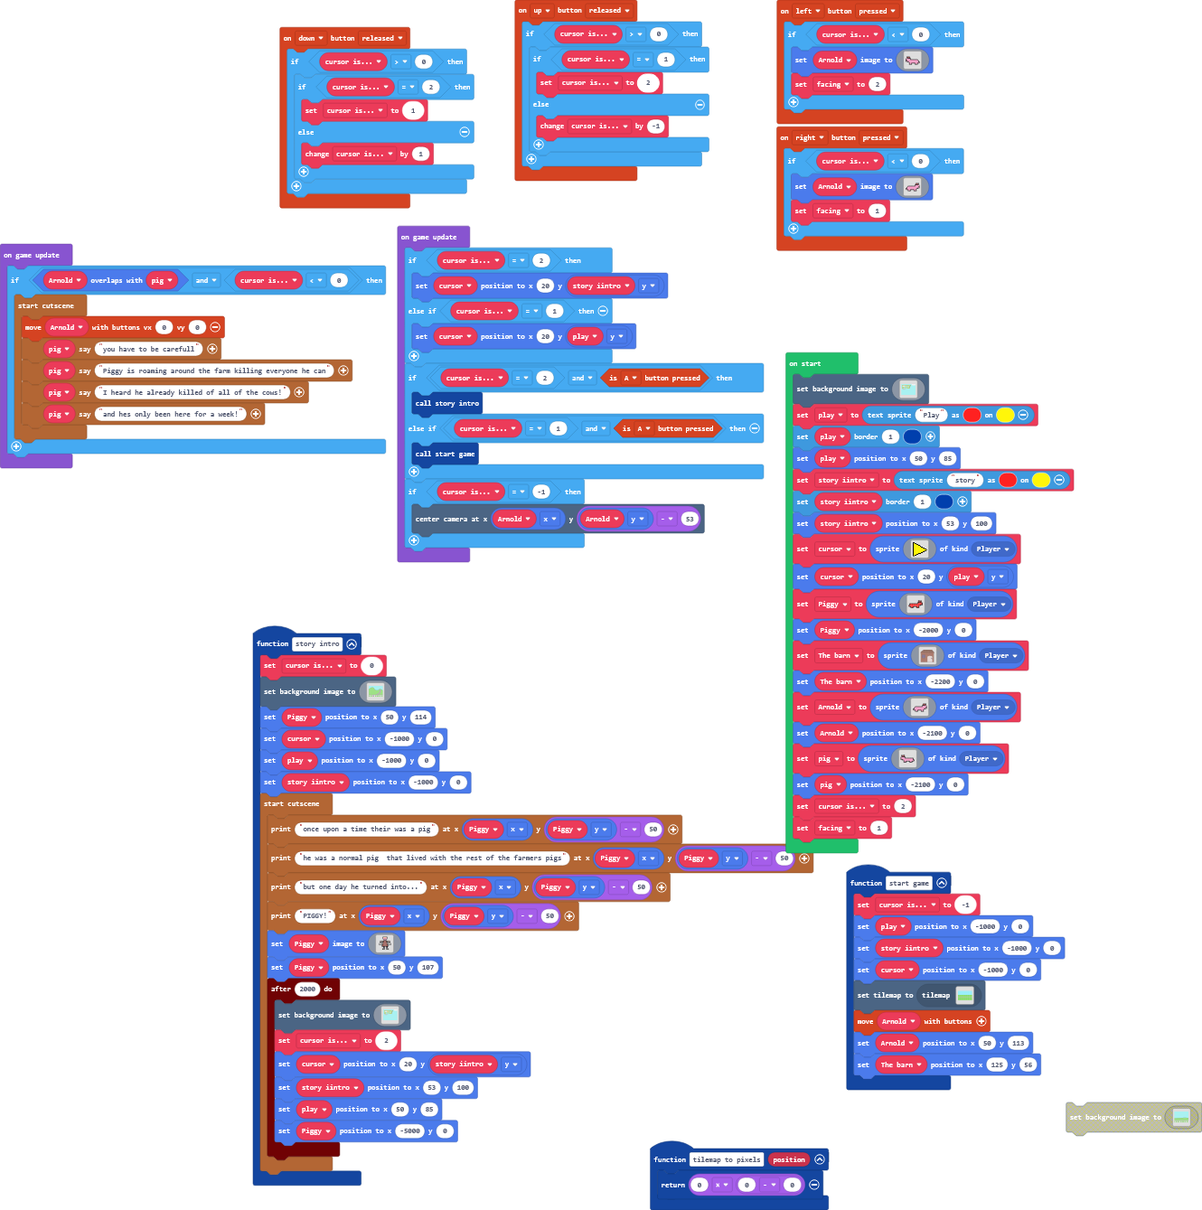
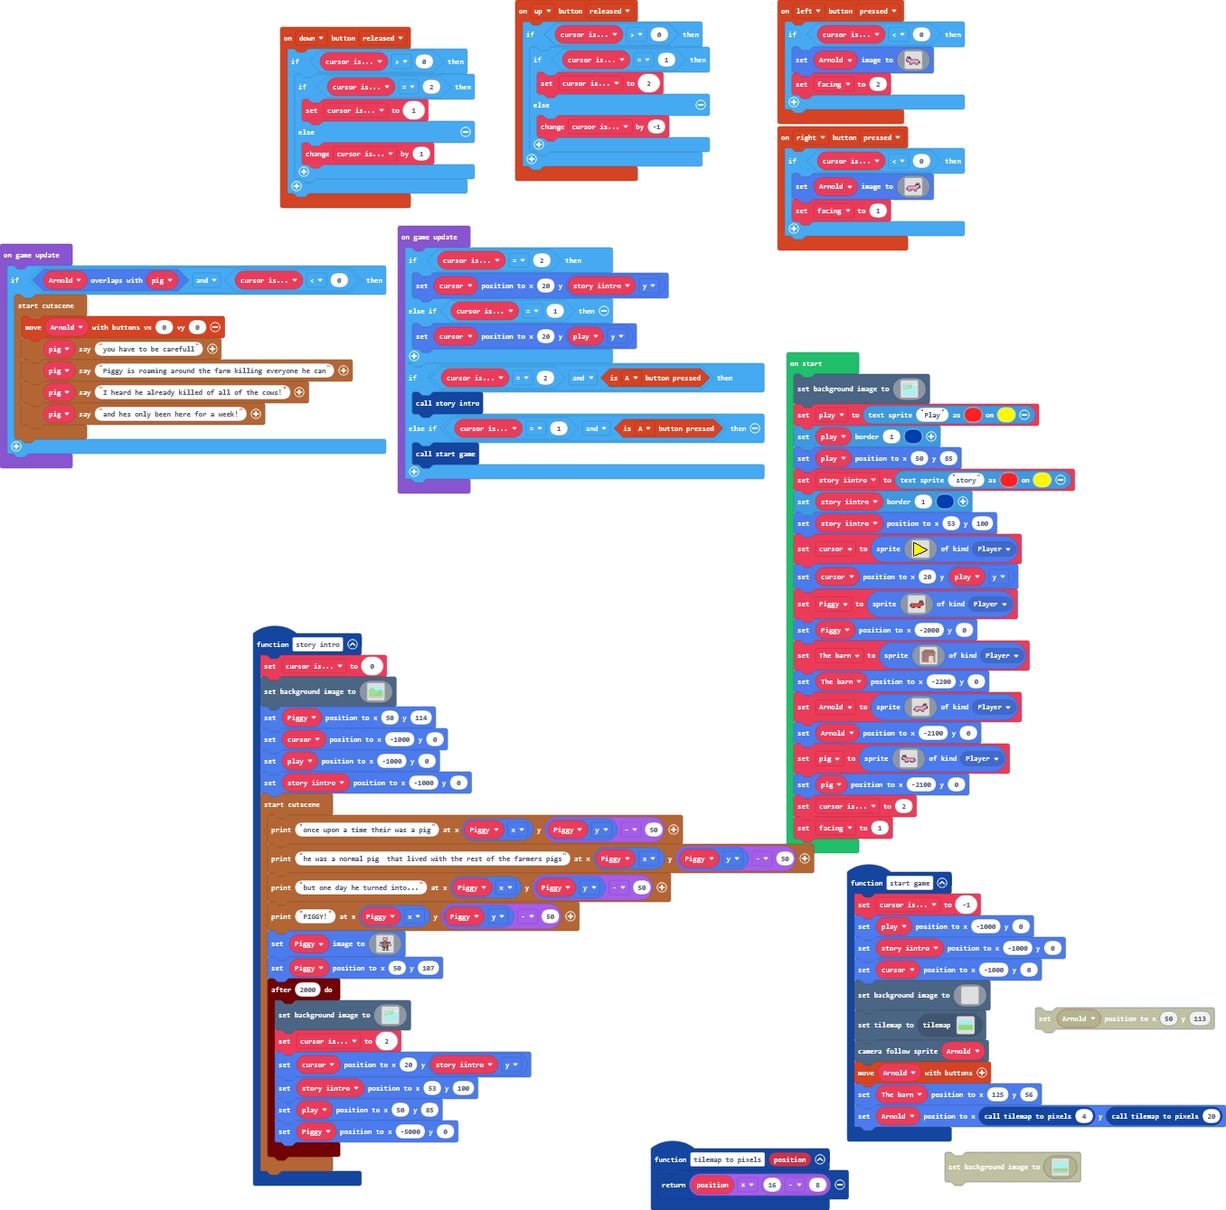
Unknown changes

Changed region(s): [[0.185, 0.2756, 1.0, 1.0], [0.0308, 0.0, 0.8015, 0.4899]]

diff --git a/main.ts b/main.ts
@@ -10,10 +10,133 @@ function start_game () {
     play.setPosition(-1000, 0)
     story_iintro.setPosition(-1000, 0)
     cursor.setPosition(-1000, 0)
+    scene.setBackgroundImage(img`
+        ................................................................................................................................................................
+        ................................................................................................................................................................
+        ................................................................................................................................................................
+        ................................................................................................................................................................
+        ................................................................................................................................................................
+        ................................................................................................................................................................
+        ................................................................................................................................................................
+        ................................................................................................................................................................
+        ................................................................................................................................................................
+        ................................................................................................................................................................
+        ................................................................................................................................................................
+        ................................................................................................................................................................
+        ................................................................................................................................................................
+        ................................................................................................................................................................
+        ................................................................................................................................................................
+        ................................................................................................................................................................
+        ................................................................................................................................................................
+        ................................................................................................................................................................
+        ................................................................................................................................................................
+        ................................................................................................................................................................
+        ................................................................................................................................................................
+        ................................................................................................................................................................
+        ................................................................................................................................................................
+        ................................................................................................................................................................
+        ................................................................................................................................................................
+        ................................................................................................................................................................
+        ................................................................................................................................................................
+        ................................................................................................................................................................
+        ................................................................................................................................................................
+        ................................................................................................................................................................
+        ................................................................................................................................................................
+        ................................................................................................................................................................
+        ................................................................................................................................................................
+        ................................................................................................................................................................
+        ................................................................................................................................................................
+        ................................................................................................................................................................
+        ................................................................................................................................................................
+        ................................................................................................................................................................
+        ................................................................................................................................................................
+        ................................................................................................................................................................
+        ................................................................................................................................................................
+        ................................................................................................................................................................
+        ................................................................................................................................................................
+        ................................................................................................................................................................
+        ................................................................................................................................................................
+        ................................................................................................................................................................
+        ................................................................................................................................................................
+        ................................................................................................................................................................
+        ................................................................................................................................................................
+        ................................................................................................................................................................
+        ................................................................................................................................................................
+        ................................................................................................................................................................
+        ................................................................................................................................................................
+        ................................................................................................................................................................
+        ................................................................................................................................................................
+        ................................................................................................................................................................
+        ................................................................................................................................................................
+        ................................................................................................................................................................
+        ................................................................................................................................................................
+        ................................................................................................................................................................
+        ................................................................................................................................................................
+        ................................................................................................................................................................
+        ................................................................................................................................................................
+        ................................................................................................................................................................
+        ................................................................................................................................................................
+        ................................................................................................................................................................
+        ................................................................................................................................................................
+        ................................................................................................................................................................
+        ................................................................................................................................................................
+        ................................................................................................................................................................
+        ................................................................................................................................................................
+        ................................................................................................................................................................
+        ................................................................................................................................................................
+        ................................................................................................................................................................
+        ................................................................................................................................................................
+        ................................................................................................................................................................
+        ................................................................................................................................................................
+        ................................................................................................................................................................
+        ................................................................................................................................................................
+        ................................................................................................................................................................
+        ................................................................................................................................................................
+        ................................................................................................................................................................
+        ................................................................................................................................................................
+        ................................................................................................................................................................
+        ................................................................................................................................................................
+        ................................................................................................................................................................
+        ................................................................................................................................................................
+        ................................................................................................................................................................
+        ................................................................................................................................................................
+        ................................................................................................................................................................
+        ................................................................................................................................................................
+        ................................................................................................................................................................
+        ................................................................................................................................................................
+        ................................................................................................................................................................
+        ................................................................................................................................................................
+        ................................................................................................................................................................
+        ................................................................................................................................................................
+        ................................................................................................................................................................
+        ................................................................................................................................................................
+        ................................................................................................................................................................
+        ................................................................................................................................................................
+        ................................................................................................................................................................
+        ................................................................................................................................................................
+        ................................................................................................................................................................
+        ................................................................................................................................................................
+        ................................................................................................................................................................
+        ................................................................................................................................................................
+        ................................................................................................................................................................
+        ................................................................................................................................................................
+        ................................................................................................................................................................
+        ................................................................................................................................................................
+        ................................................................................................................................................................
+        ................................................................................................................................................................
+        ................................................................................................................................................................
+        ................................................................................................................................................................
+        ................................................................................................................................................................
+        ................................................................................................................................................................
+        ................................................................................................................................................................
+        ................................................................................................................................................................
+        ................................................................................................................................................................
+        `)
     tiles.setCurrentTilemap(tilemap`level6`)
+    scene.cameraFollowSprite(Arnold)
     controller.moveSprite(Arnold)
-    Arnold.setPosition(50, 113)
     The_barn.setPosition(125, 56)
+    Arnold.setPosition(tilemap_to_pixels(4), tilemap_to_pixels(20))
 }
 controller.down.onEvent(ControllerButtonEvent.Released, function () {
     if (cursor_is > 0) {
@@ -369,7 +492,7 @@ function story_intro () {
     })
 }
 function tilemap_to_pixels (position: number) {
-    return 0 * (0 - 0)
+    return position * (16 - 8)
 }
 let facing = 0
 let cursor_is = 0
@@ -729,8 +852,5 @@ game.onUpdate(function () {
         story_intro()
     } else if (cursor_is == 1 && controller.A.isPressed()) {
         start_game()
-    }
-    if (cursor_is == -1) {
-        scene.centerCameraAt(Arnold.x, Arnold.y - 53)
     }
 })

diff --git a/tilemap.g.ts b/tilemap.g.ts
@@ -106,25 +106,6 @@ namespace myTiles {
 . . . . . . . . . . . . . . . . 
 . . . . . . . . . . . . . . . . 
 `, [myTiles.transparency16], TileScale.Sixteen);
-            case "level6":
-            case "level6":return tiles.createTilemap(hex`1900100002020202020202020202020202020202020202020202020202020202020202020202020202020202020202020202020202020202020202020202020202020202020202020202020202020202020202020202020202020202020202020202020202020202020202020202020202020202020202020202020202020202020202020202020202020202020202020202020202020202020202020202020202020202020202020202020202020202020202010101010101010101010101010101010101010101010101010101010101010101010101010101010101010101010101010101010101010101010101010101010101010101010101010101030303030303030303030303030303030303030303030303030101010101010101010101010101010101010101010101010101010101010101010101010101010101010101010101010101010101010101010101010101010101010101010101010101010101010101010101010101010101010101010101010101010101010101010101010101010101010101010101010101010101`, img`
-.........................
-.........................
-.........................
-.........................
-.........................
-.........................
-.........................
-.........................
-.........................
-.........................
-2222222222222222222222222
-.........................
-.........................
-.........................
-.........................
-.........................
-`, [myTiles.transparency16,myTiles.tile1,myTiles.tile2,myTiles.tile3], TileScale.Sixteen);
             case "level7":
             case "level7":return tiles.createTilemap(hex`1000100000000000000000000000000000000000000000000000000000000000000000000000000000000000000000000000000000000000000000000000000000000000000000000000000000000000000000000000000000000000000000000000000000000000000000000000000000000000000000000000000000000000000000000000000000000000000000000000000000000000000000000000000000000000000000000000000000000000000000000000000000000000000000000000000000000000000000000000000000000000000000000000000000000000000000000000000000000000000000000000000000000000000000000000000000000000`, img`
 . . . . . . . . . . . . . . . . 
@@ -144,6 +125,25 @@ namespace myTiles {
 . . . . . . . . . . . . . . . . 
 . . . . . . . . . . . . . . . . 
 `, [myTiles.transparency16], TileScale.Sixteen);
+            case "level6":
+            case "level6":return tiles.createTilemap(hex`1900100002020202020202020202020202020202020202020202020202020202020202020202020202020202020202020202020202020202020202020202020202020202020202020202020202020202020202020202020202020202020202020202020202020202020202020202020202020202020202020202020202020202020202020202020202020202020202020202020202020202020202020202020202020202020202020202020202020202020202030303030303030303030303030303030303030303030303030101010101010101010101010101010101010101010101010101010101010101010101010101010101010101010101010101010101010101010101010101010101010101010101010101010101010101010101010101010101010101010101010101010101010101010101010101010101010101010101010101010101010101010101010101010101010101010101010101010101010101010101010101010101010101010101010101010101010101010101010101010101010101010101010101010101010101`, img`
+.........................
+.........................
+.........................
+.........................
+.........................
+.........................
+.........................
+2222222222222222222222222
+.........................
+.........................
+.........................
+.........................
+.........................
+.........................
+.........................
+.........................
+`, [myTiles.transparency16,myTiles.tile1,myTiles.tile2,myTiles.tile3], TileScale.Sixteen);
         }
         return null;
     })
